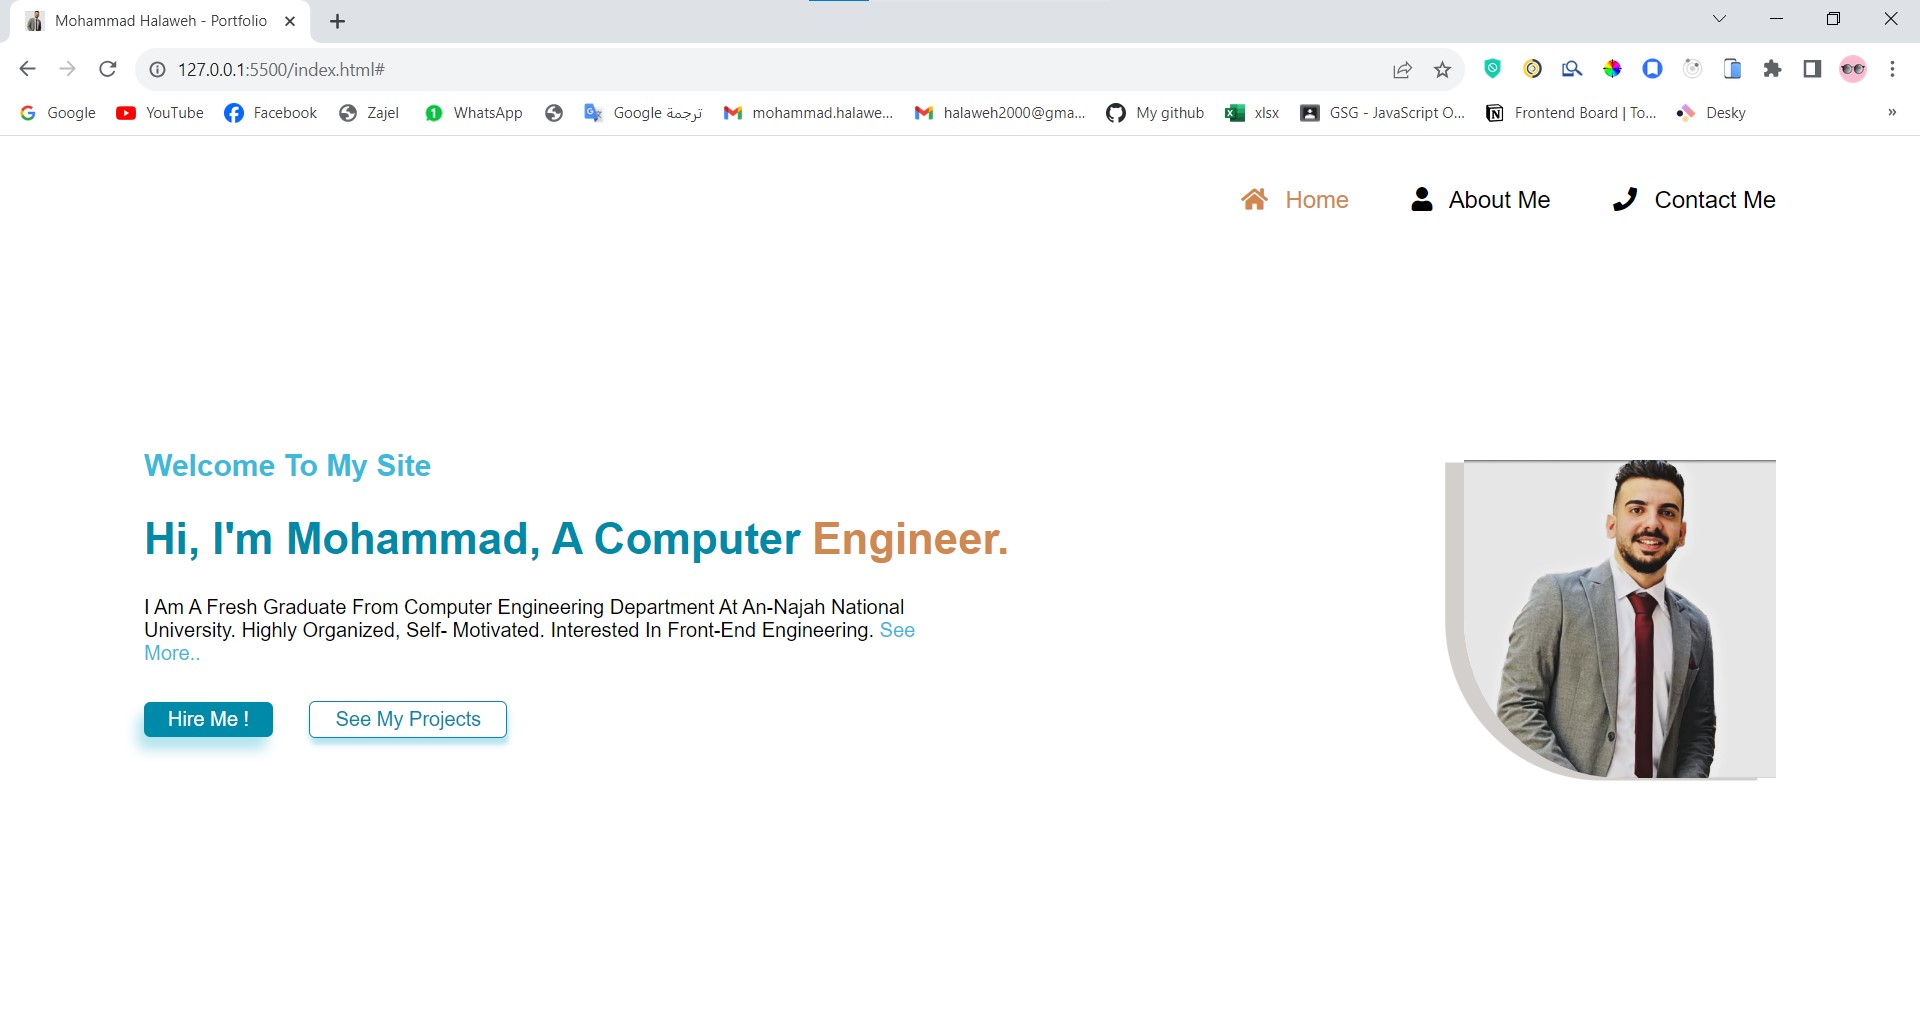
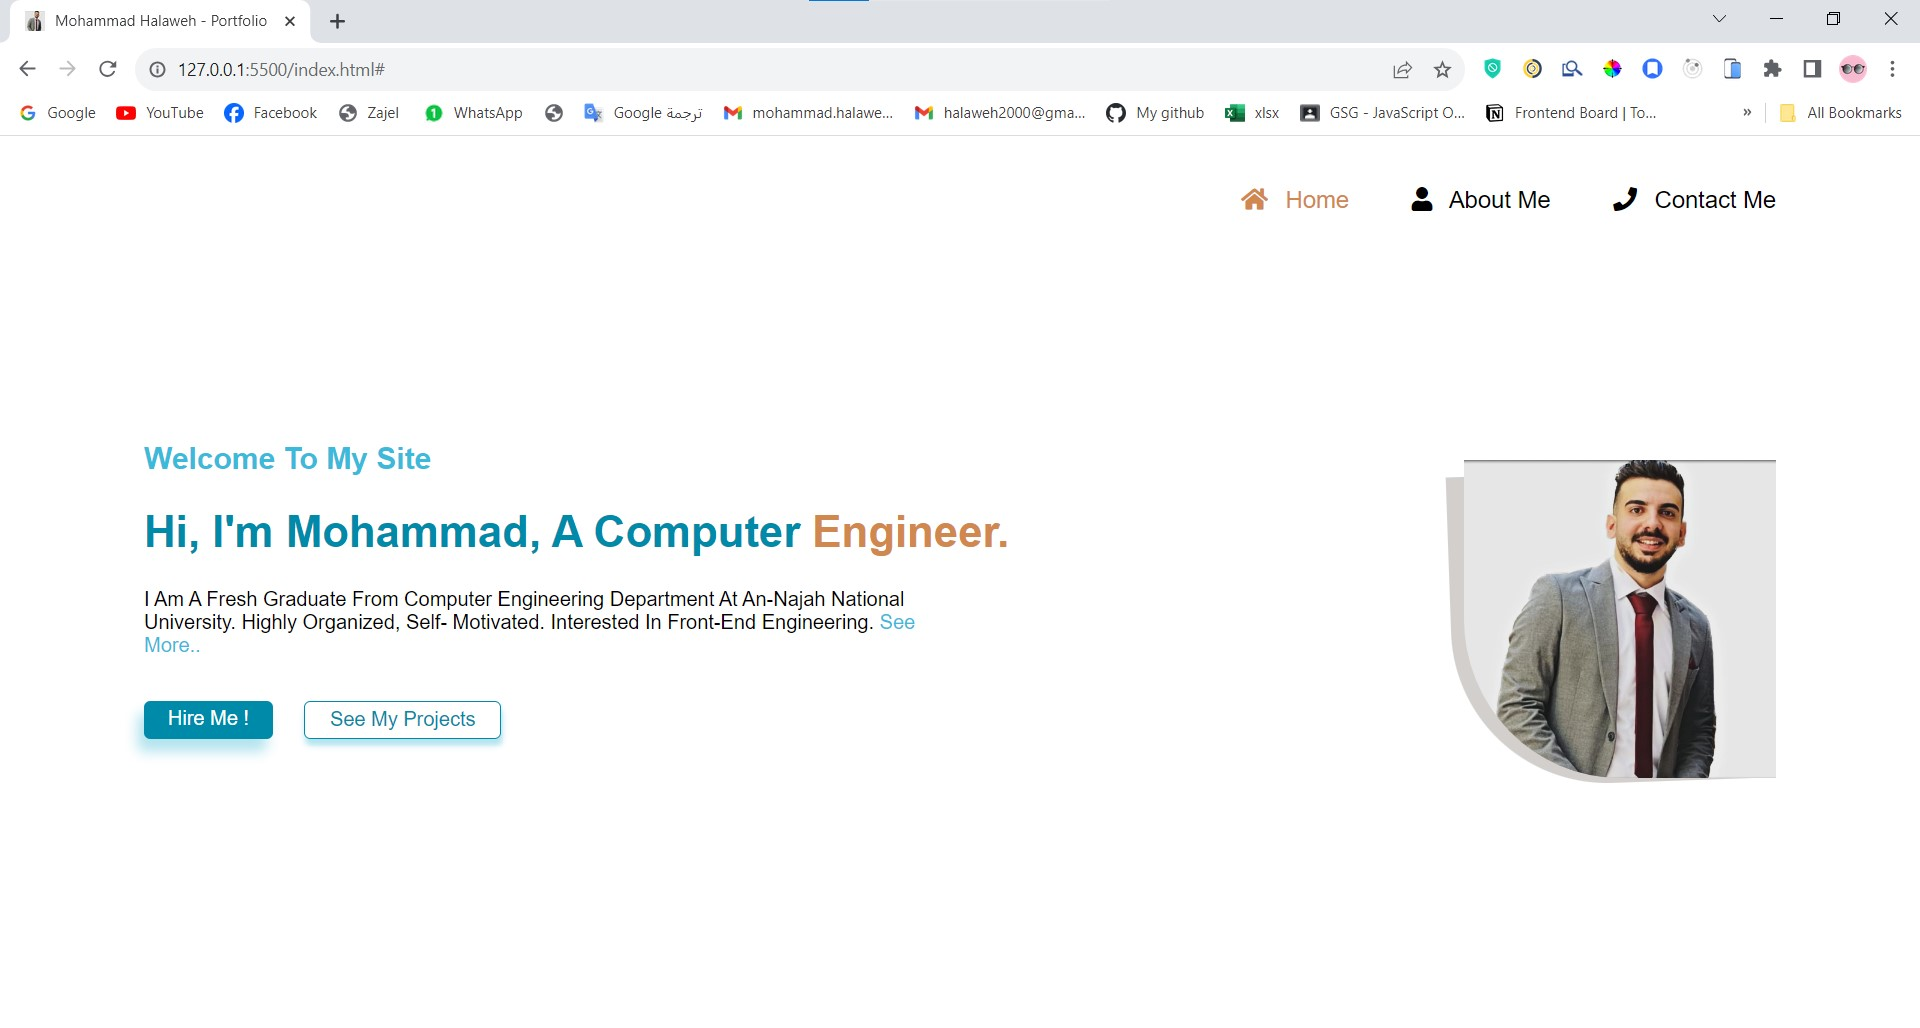
add mediaQuery file

diff --git a/assets/css/mediaQuery.css b/assets/css/mediaQuery.css
@@ -1,0 +1,120 @@
+@media (max-width: 415px) {
+
+    /* Start nav */
+    nav .list-item {
+        align-items: self-start;
+        flex-direction: column;
+    }
+
+    nav .list-item .item a {
+        font-size: 13px;
+    }
+
+    nav .list-item .item {
+        margin-bottom: 7px;
+    }
+
+    /* End nav */
+
+
+
+    /* Start header */
+    header .header-details {
+        width: 100%;
+        position: relative;
+        top: 200px;
+    }
+
+    header .header-details h2 {
+        font-size: 18px;
+    }
+
+    header .header-details h1 {
+        font-size: 25px;
+    }
+
+    header .header-details p {
+        width: 100%;
+    }
+
+
+    header .header-details .header-buttons {
+        display: flex;
+        justify-content: space-between;
+        flex-direction: row;
+        flex-wrap: wrap;
+    }
+
+    header .header-image {
+        margin: auto;
+        position: relative;
+        bottom: 65%;
+    }
+
+    header .header-image img {
+        width: 160px;
+    }
+
+    /* End Header */
+}
+
+@media (min-width:415px) and (max-width:981px) {
+
+    /* Start nav */
+    nav .list-item {
+        justify-content: center;
+        margin-bottom: 15px;
+    }
+
+    nav .list-item .item a {
+        font-size: 14px;
+    }
+
+    /* End nav */
+
+
+
+    /* Start header */
+
+    header .header-details {
+        /* background-color: yellow; */
+        width: 100%;
+        position: relative;
+        top: 200px;
+    }
+
+    header .header-details h2 {
+        font-size: 18px;
+    }
+
+    header .header-details h1 {
+        font-size: 25px;
+    }
+
+
+    header .header-details p {
+        width: 100%;
+    }
+
+
+    header .header-details .header-buttons {
+        display: flex;
+        justify-content: space-between;
+        flex-direction: row;
+        flex-wrap: wrap;
+    }
+
+
+
+    header .header-image {
+        margin: auto;
+        position: relative;
+        bottom: 65%;
+    }
+
+    header .header-image img {
+        width: 160px;
+    }
+
+    /* End Header */
+}

diff --git a/assets/css/style.css b/assets/css/style.css
@@ -110,6 +110,11 @@ header .header-details p a {
     color: var(--secondary-color);
 }
 
+header .header-details .header-buttons {
+    display: flex;
+    row-gap: 10px;
+}
+
 
 
 header .header-details .hire-button {
@@ -150,10 +155,27 @@ header .header-details .projects-button:hover {
     background-color: var(--main-color);
 }
 
-
+header .header-image{
+    position: relative;
+}
 header .header-image img {
+    position: relative;
+    z-index: 999999;
     border-bottom-left-radius: 50%;
-    box-shadow: -15px 2px 0 rgba(107, 96, 87, 0.3);
+
+}
+
+header .header-image::before {
+    content: "";
+    position: absolute;
+    top: 10px;
+    right: 10px;
+    left: -10px;
+    bottom: 0;
+    background-color: rgba(107, 96, 87, 0.3);
+    z-index: 1;
+    border-bottom-left-radius: 50%;
+    transform: rotate(-2deg);
 }
 
 /* End Header */

diff --git a/index.html b/index.html
@@ -17,6 +17,7 @@
 
     <!-- Costum Css-->
     <link rel="stylesheet" href="assets/css/style.css">
+    <link rel="stylesheet" href="assets/css/mediaQuery.css">
 </head>
 
 <body class="container">

diff --git a/README.md b/README.md
@@ -13,6 +13,8 @@ Personal portfolio website by using only HTML and CSS.
 
 ![Portfolio](./assets/Screenshoots/PorfolioScreenshoot1.jpg)
 
+![Responsive](./assets/Screenshoots/Responsive.jpg)
+
 ### Javascript Question
 
 Given an array of integers nums and an integer target, return indices of the two numbers such that they add up to target.
